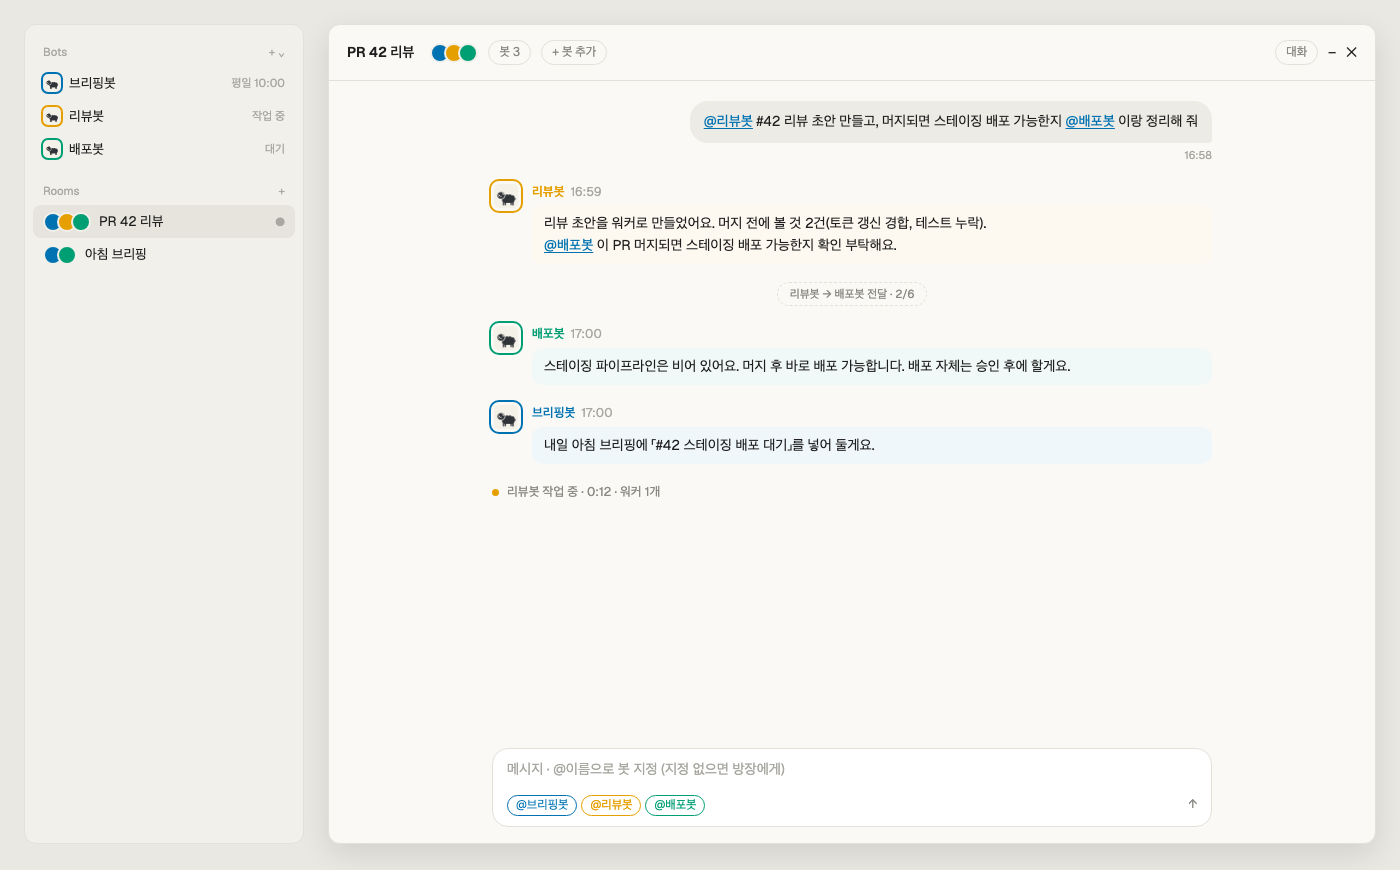
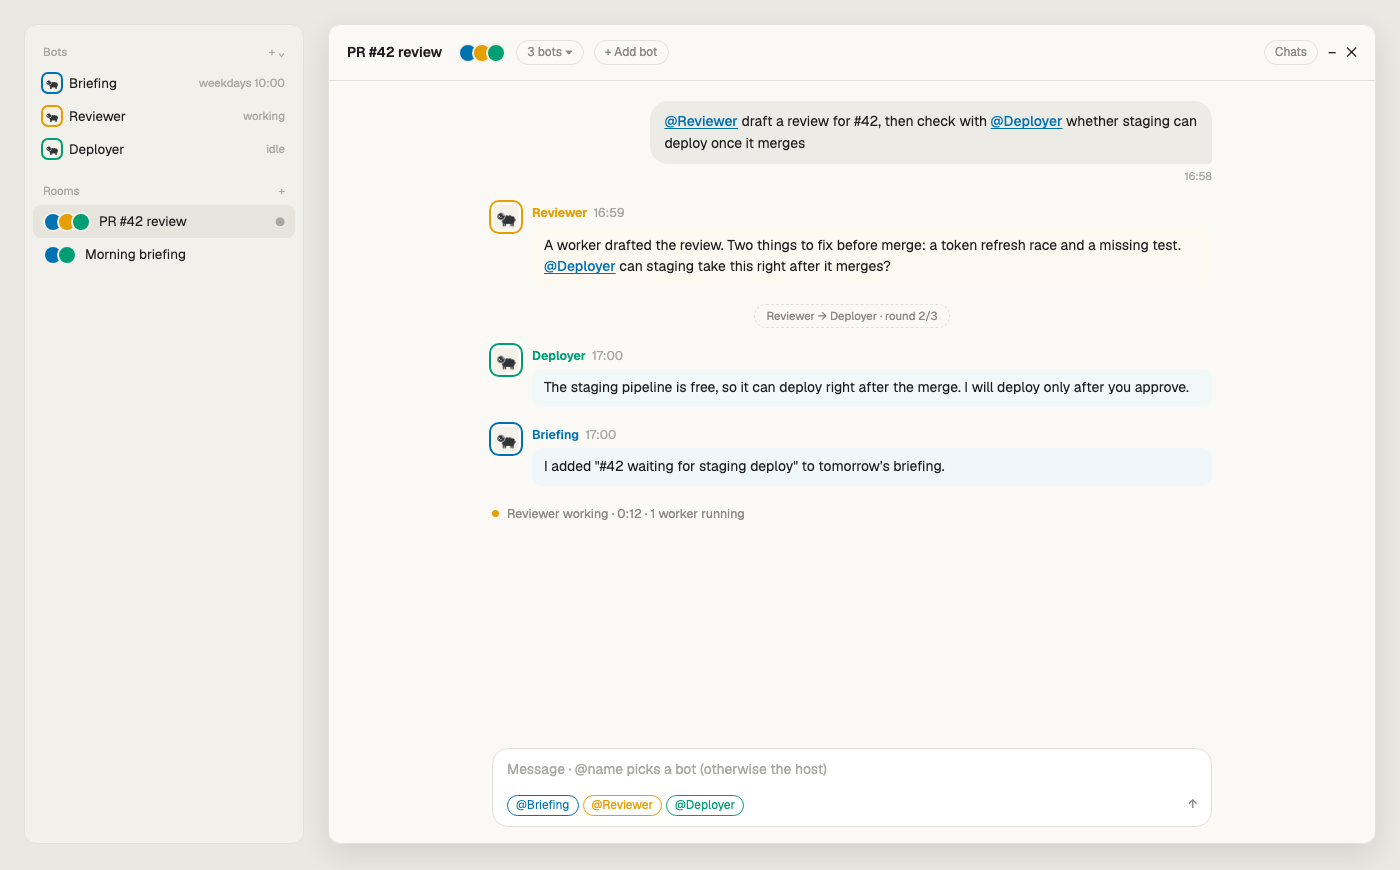
Make README, recipe and preview English-first
The preview shows the English UI. Hand-off limits now match the code:
3 rounds and 10 bot replies per message.

diff --git a/RECIPE.md b/RECIPE.md
@@ -10,34 +10,34 @@ window that reads like a messenger: your bubbles right, the bot's Markdown repli
 - Sidebar (layout `bots`, Herdr's `main` tree): Spaces, then a `bots` block of 230px, then Agents.
   - "Bots" header (11.5px, `dim`) with `+` (new bot, inline name input) and a fold chevron.
   - One 30px row per bot: 16px lamb icon in a 1px ring of the bot's color, title (`foreground`, or `muted` when off),
-    a status or schedule line (11.5px), a 6px dot: `blocked` "응답 필요", `working` "작업 중", `done` "완료",
+    a status or schedule line (11.5px), a 6px dot: `blocked` "needs you", `working` "working", `done` "done",
     `idle` with the schedule text, hollow ring when off. Right-click: a 240×132 popup with Open chat, Rename, Remove
     bot (asks once more, in `blocked` color).
   - "Rooms" header with `+` (creates an untitled room at once), one row per room: overlapping 14px dots of member colors,
     title ("Untitled room" in `muted` when empty), an unread count, a dot in `working` or `blocked` when a member is or
     a bot asked `@user`. Right-click: Open, Rename, Leave room (asks once more).
-  - Every label is chosen from the macOS language (`defaults read -g AppleLanguages`): Korean or English.
+  - Labels are English, or Korean when it is the first macOS language (`defaults read -g AppleLanguages`).
 - Bot chat window (`kind: "window"`, 520×680, key `chat-<bot>`): 52px header with the lamb and a status badge, title,
-  model chip, "대화", "터미널 보기", `–` minimize (to 320×52) and `✕`. Messages in a 760px column with date dividers;
-  your bubble `selected`, 18px radius; bot rows: 28px lamb, name, time, "복사", a tool chip
-  "▸ 도구 N회 · names" that unfolds one line per call; a working line; a blocked card. Composer: auto-growing textarea
+  model chip, "Chats", "Terminal", `–` minimize (to 320×52) and `✕`. Messages in a 760px column with date dividers;
+  your bubble `selected`, 18px radius; bot rows: 28px lamb, name, time, "Copy", a tool chip
+  "▸ N tool calls · names" that unfolds one line per call; a working line; a blocked card. Composer: auto-growing textarea
   (2–8 rows), send `↑`, stop `■` while working.
-- Room window (620×720, key `room-<room>`): title, member dots, "봇 N", "+ 봇 추가". Bot bubbles in a 6% tint of the
-  bot's color, name in that color, a 26px lamb in a 2px ring. Hand-offs show as a pill "A → B 전달 · n/6". Mentions in
+- Room window (620×720, key `room-<room>`): title, member dots, "N bots", "+ Add bot". Bot bubbles in a 6% tint of the
+  bot's color, name in that color, a 26px lamb in a 2px ring. Hand-offs show as a pill "A → B · n/3" (rounds). Mentions in
   messages are links (`bot:<id>`) that open that bot's chat. Composer mention buttons are outlined in the bot's color
   and insert a colored token at the end.
 - Colors: Okabe-Ito `#0072B2 #E69F00 #009E73 #CC79A7 #D55E00 #56B4E9` by bot id order.
 
 ## How it behaves
 
-- working: the window shows "작업 중 · m:ss · <what the bot reports> · 워커 N개"; blocked: a card with the bot's
-  question and "터미널에서 답하기" (`terminal.peek`); done/idle: nothing extra.
-- Sending: the bubble appears at once ("보내는 중"), `hc send` runs in the background; an off bot is started first.
+- working: the window shows "Working · m:ss · <what the bot reports> · N workers running"; blocked: a card with the bot's
+  question and "Answer in terminal" (`terminal.peek`); done/idle: nothing extra.
+- Sending: the bubble appears at once ("sending"), `hc send` runs in the background; an off bot is started first.
 - New replies scroll to the start of the reply; your message scrolls to the end.
 - Rooms: your message goes to `@mentioned` members, else the first member (host). Each member answers in a room-only
   session and wakes with what was said since its last reply as `<quoted_room_history>`. A reply's `@mentions` of other
   members are delivered next, up to 3 rounds and 10 bot replies per message (then a Continue card, up to 5 times). A bot
-  mentioning the bot that called it does not wake it. `quiet` or `조용` stays silent; `@user` marks "needs you".
+  mentioning the bot that called it does not wake it. `quiet` stays silent; `@user` marks "needs you".
 - Room window: click the title to rename; the member panel shows the host, "Make host", "Remove" and model choices;
   "■ Stop" appears while a member works.
 - Memory: a `UserPromptSubmit` hook adds `SOUL.md` / `MEMORY.md` changes to the next turn; every 5 turns a background

diff --git a/README.md b/README.md
@@ -6,8 +6,8 @@ work to each other, scheduled runs and desktop notifications. Inspired by Orca B
 
 ![herdr-bots](preview.png)
 
-> The UI follows the macOS language: Korean when Korean is first, English otherwise. Bot rules and templates are English;
-> bots reply in your language.
+> The UI is English, with a Korean translation used when Korean is your first macOS language. Bots reply in the
+> language you write in.
 
 ## What you get
 
@@ -19,7 +19,7 @@ work to each other, scheduled runs and desktop notifications. Inspired by Orca B
 - **Rooms**: `+` creates a room at once and opens it with the bot picker; name it later by clicking its title or from
   the right-click menu, which also has "Leave room" (its history is kept). The member panel sets the host and removes
   bots. Several bots in one chat. A message goes to the bots you `@mention` (or the first member, the room
-  owner). A bot that `@mentions` another bot hands the turn to it, at most 6 hand-offs per message.
+  owner). A bot that `@mentions` another bot hands the turn to it (limits below).
 - **Self-updating persona and memory**: every turn, a Claude Code hook compares the bot's `SOUL.md` and `MEMORY.md`
   with what that session last saw and adds the change to the turn. Every 5 turns a background reflection proposes
   edits from the conversation; `botsmem` checks them (owner rules untouchable, at most 25% of memory lines removed per
@@ -75,7 +75,7 @@ the chat shows a card, press "answer in terminal" and accept.
 | `botsmem history <name>` / `botsmem undo <name> [id]` | see or undo persona and memory changes |
 
 Model and effort per bot: `botsdb set-model <bot> <model> <effort>` (default `claude-sonnet-5-5`, `low`), or the chat window's model chip. Environment overrides: `HERDR_BOT_MODEL`, `HERDR_BOT_EFFORT`,
-`HERDR_BOT_PERMISSION` (`auto`). Notification language: `mods/desktop-toast/config.json` (`ko` or `en`).
+`HERDR_BOT_PERMISSION` (`auto`). Notification language: `mods/desktop-toast/config.json` (`auto` follows the UI, or `en` / `ko`).
 
 ## How it works
 
